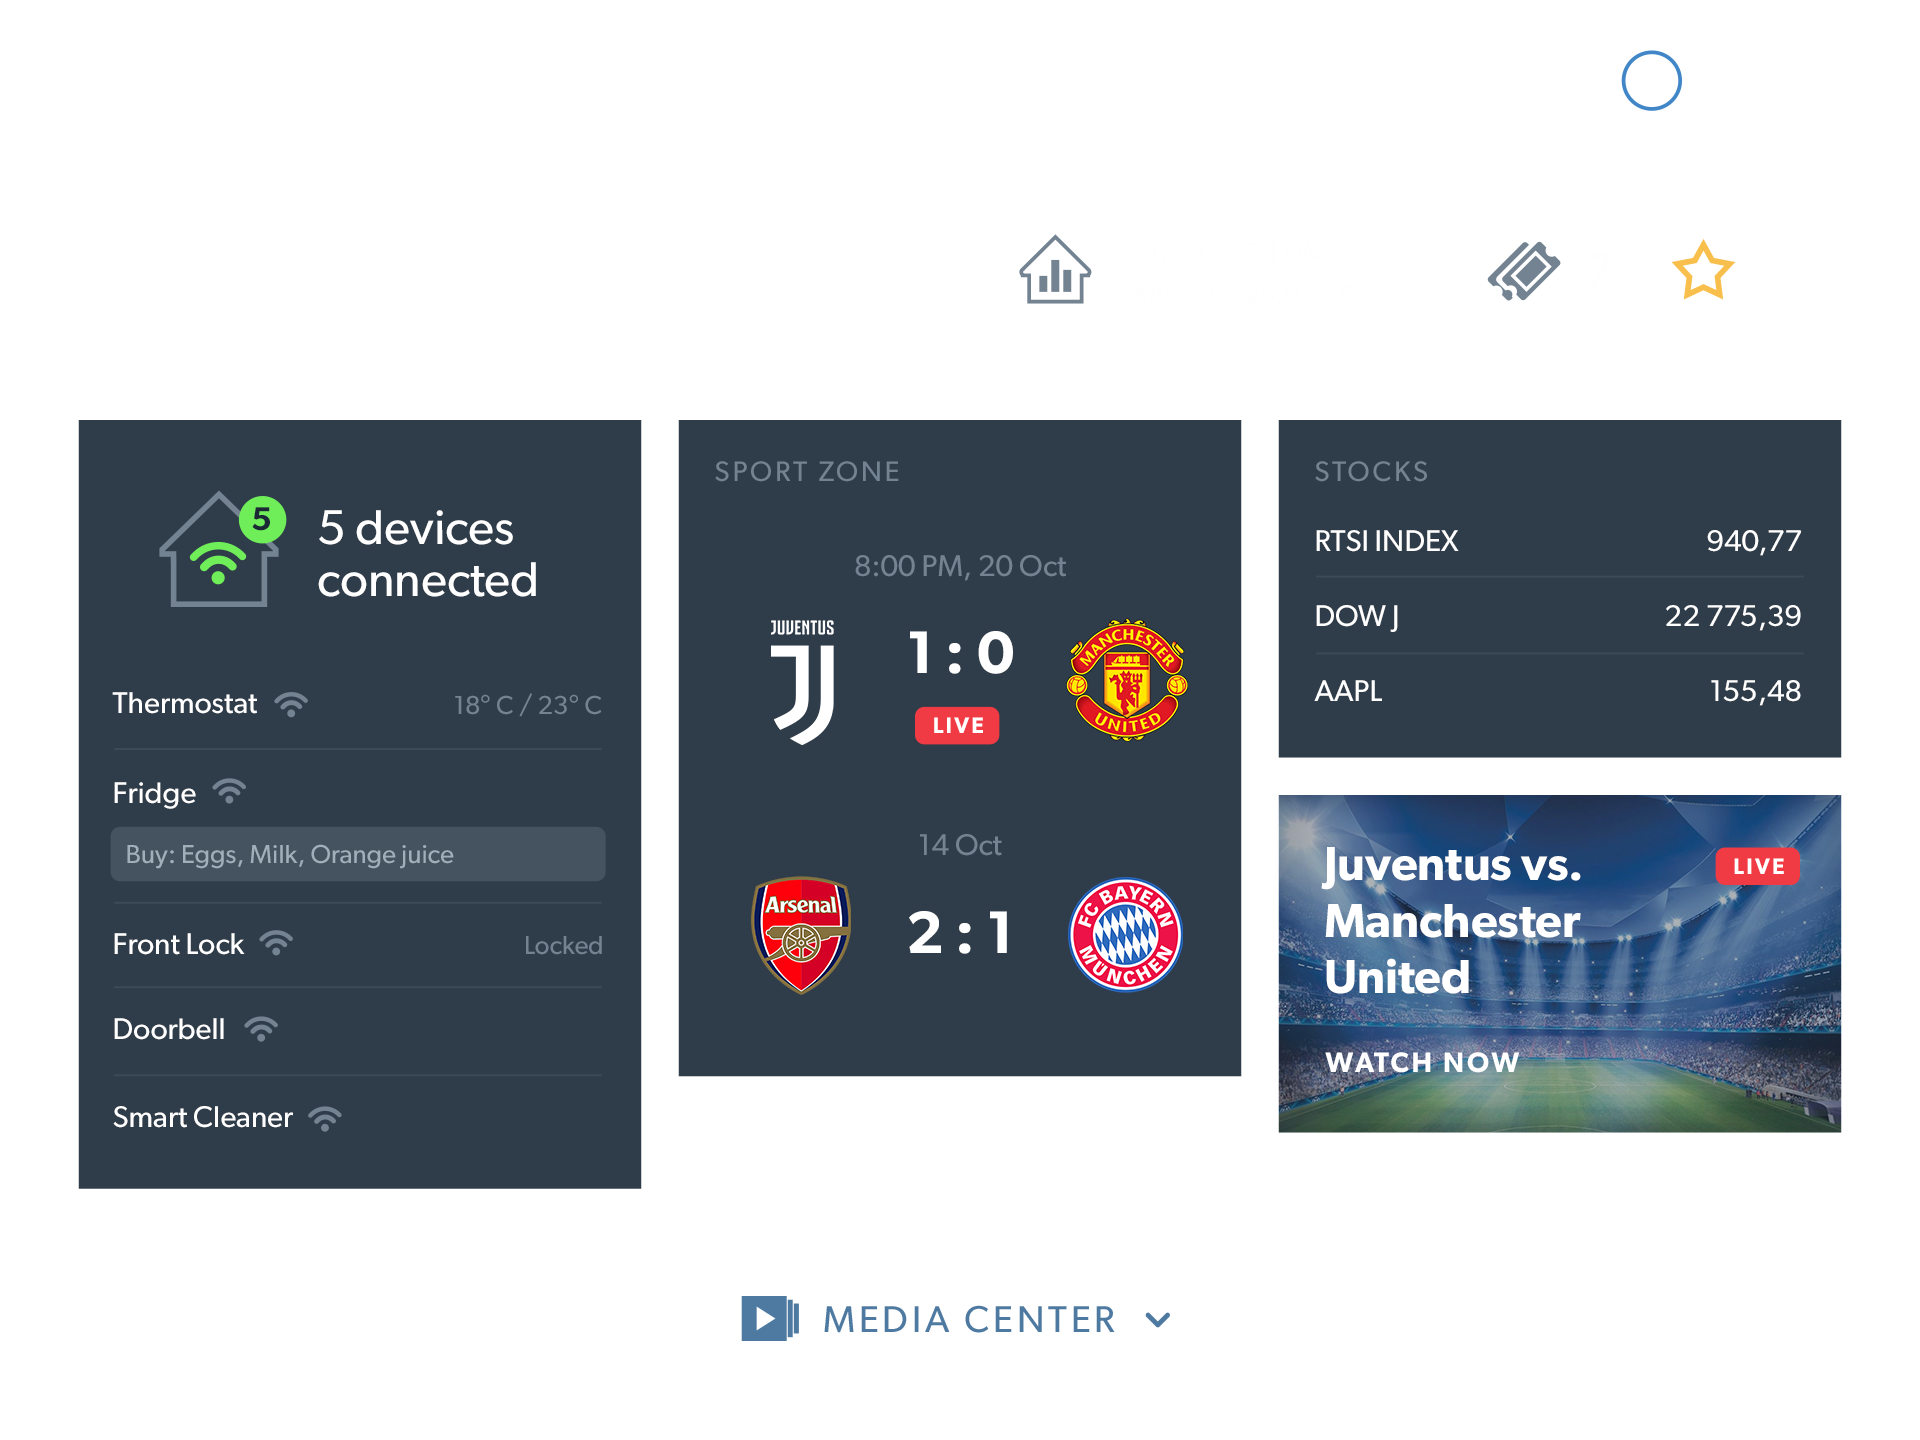
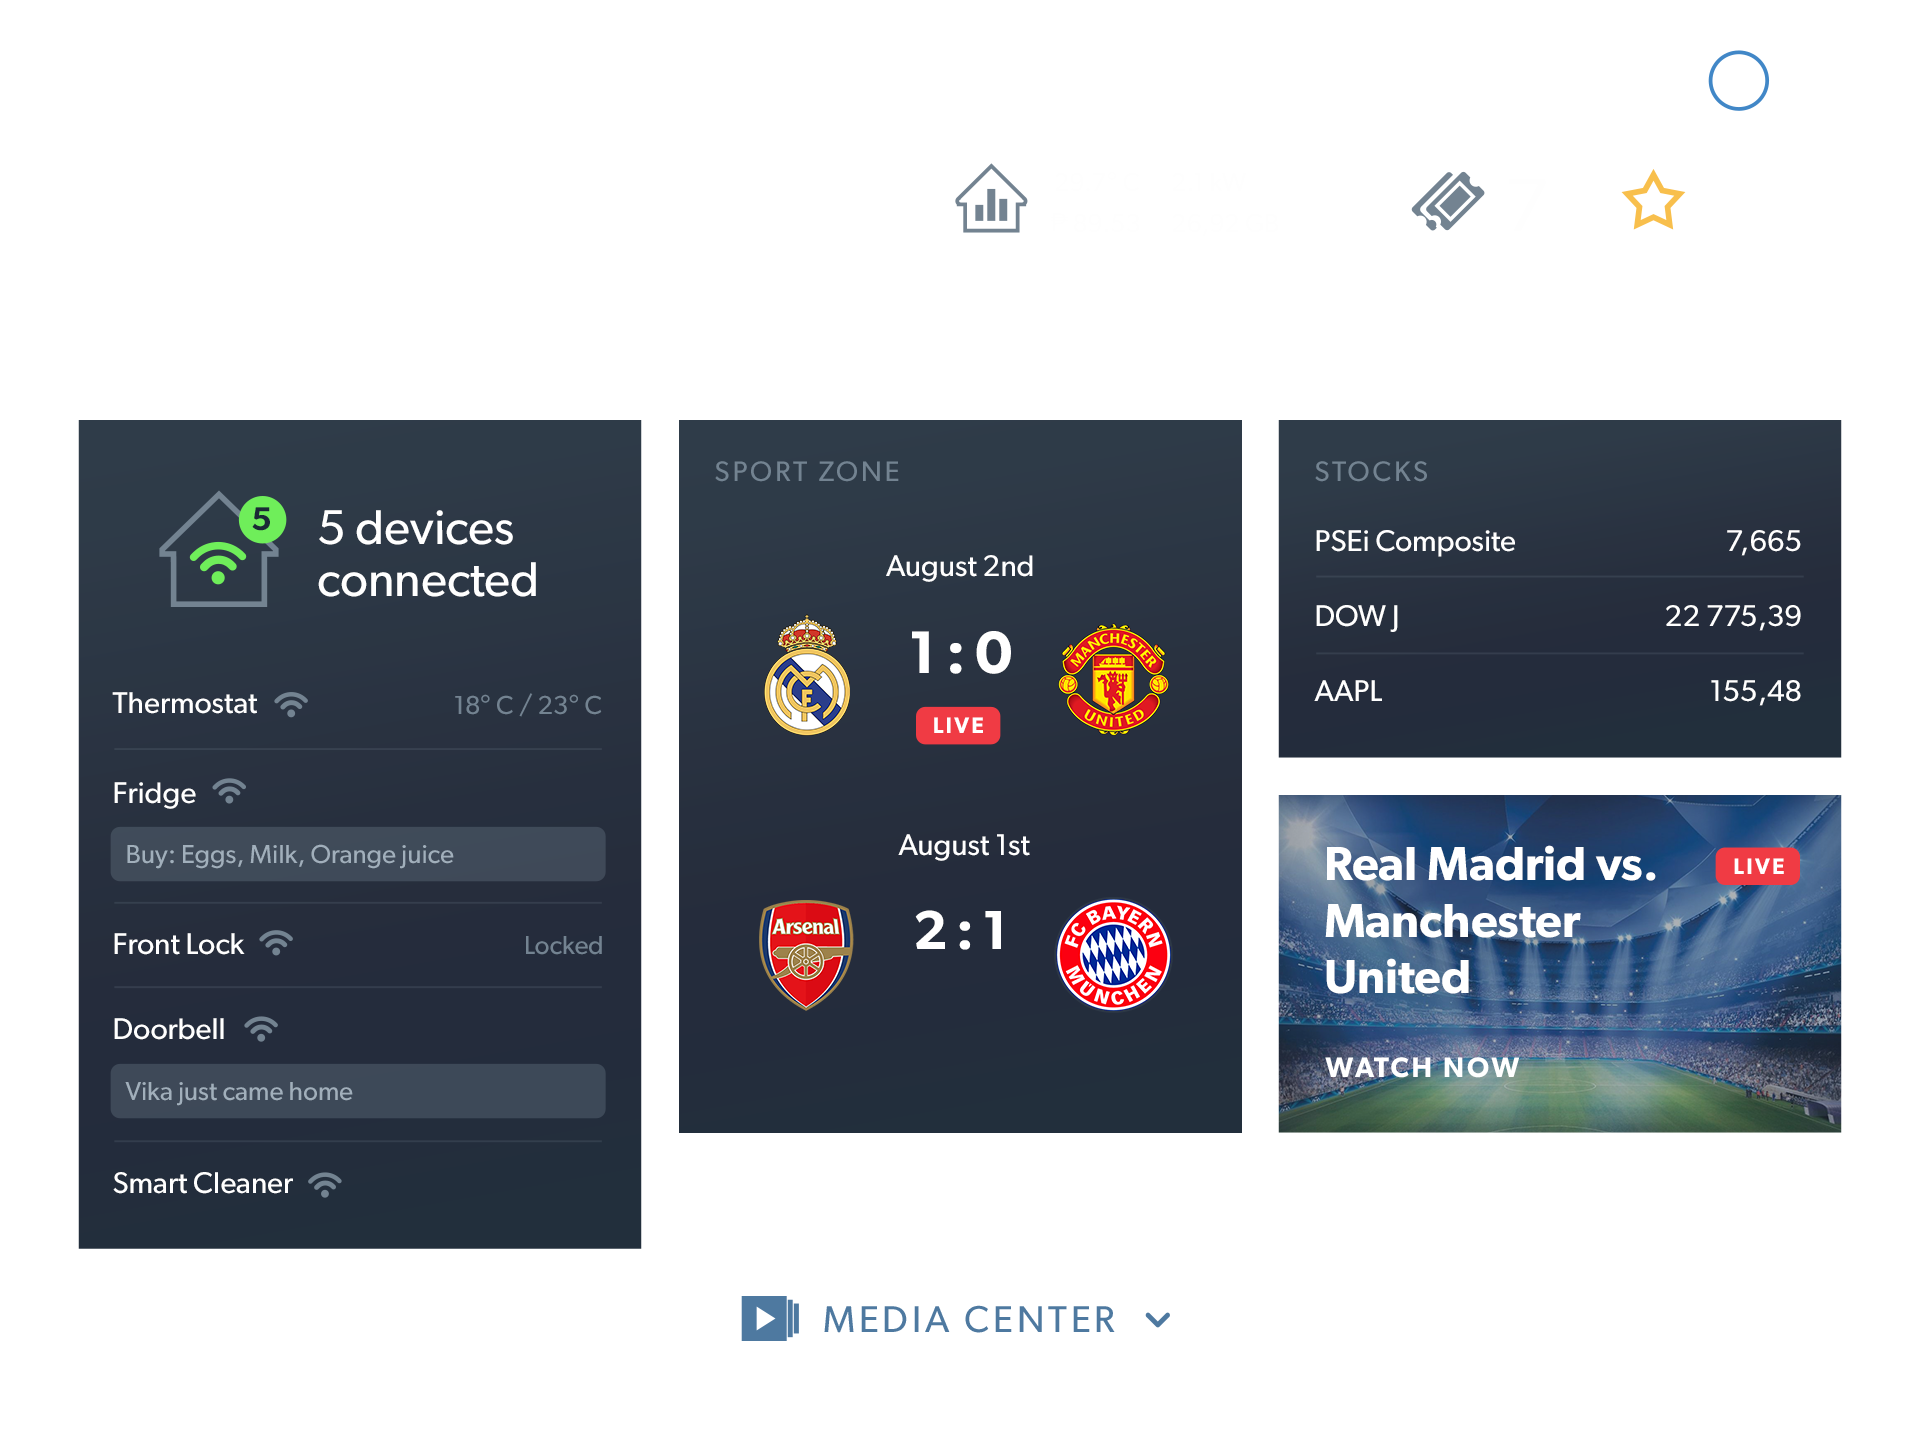
Manila update

diff --git a/transition/css/default.css b/transition/css/default.css
@@ -65,13 +65,13 @@ button:hover, .dl-trigger:hover{
 }
 .hack_time_block_2 {
 	position: absolute;
-	top: 210px;
-	left: 34px;
+	top: 150px;
+	left: 50px;
 }
 .hack_date_block_2 {
 	position: absolute;
-	top: 210px;
-    left: 395px;
+	top: 150px;
+    left: 470px;
 }
 
 .hack_loyalty_block_2{
@@ -79,8 +79,8 @@ button:hover, .dl-trigger:hover{
 	max-width: 142px;
 	min-height: 42px;
 	position: absolute;
-	left: calc(100% - 126px);
-    top: 228px;
+	left: calc(100% - 156px);
+    top: 156px;
 	z-index: 10;
 }
 
@@ -119,9 +119,9 @@ button:hover, .dl-trigger:hover{
 	max-width: 142px;
 	min-height: 42px;
 	position: absolute;
-	left: 1625px;
-    display: inline-block;
-    top: 850px;
+	left: 1685px;
+	display: inline-block;
+	top: 900px;
 	z-index: 10;
 }
 
@@ -134,6 +134,7 @@ button:hover, .dl-trigger:hover{
 	display: inline-block;
 	top: 465px;
 	z-index: 10;
+	visibility: hidden;
 }
 
 .hack_score_block_3{
@@ -169,7 +170,7 @@ button:hover, .dl-trigger:hover{
 }
 
 .loyalty_current_value_2 {
-	font-size: 51px;
+	font-size: 70px;
 	transition: all 1s ease;
 }
 
@@ -191,12 +192,12 @@ button:hover, .dl-trigger:hover{
 	/*background-color: #1b2a36;*/
 	position: absolute;
 	left: calc(100% - 288px);
-	top: 42px;
+	top: 60px;
 	z-index: 10;
 }
 
 .loyalty_current_value{
-	font-size: 23px;
+	font-size: 30px;
 	transition:all 1s ease;
 }
 
